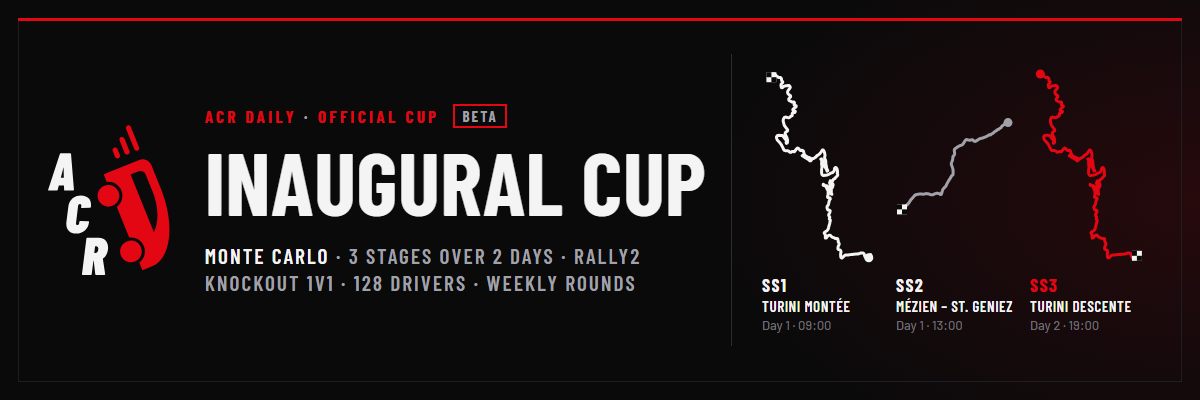
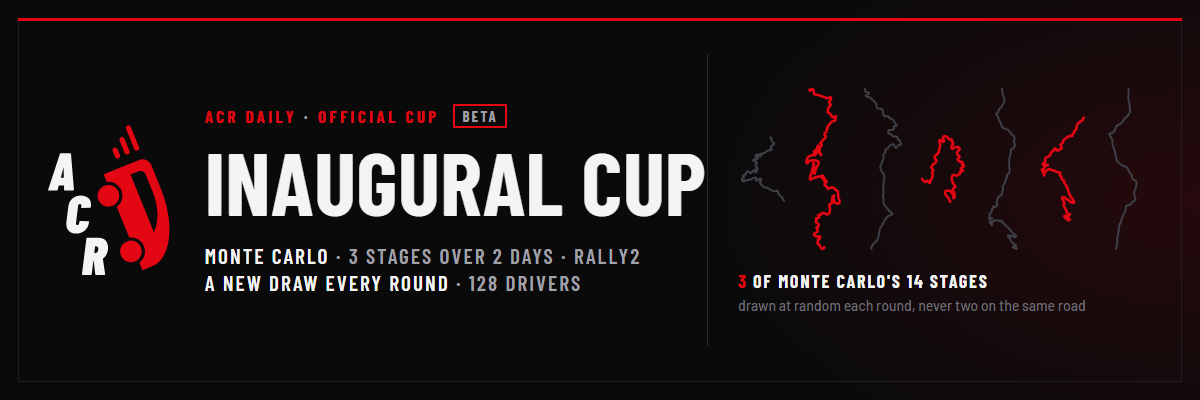
Cups: a new draw of stages each round; the Inaugural Cup draws Monte Carlo's and starts on 25 October
A cup can draw its stages anew each round ("draw" in an official cup's file; spec.draw): when a round opens, the
rally's stages are drawn into the event's slots (day, time, weather as set), never two on the same road (a stage and
its reverse, a full stage and its cuts), the ones the cup hasn't raced yet first, within maxKm in all when it can be.
Every match of the round races the same; the drivers' notices name the stages, the cup page lists each round's.
The Inaugural Cup (beta): three Monte Carlo stages drawn each round (40 km at most), from 25 October, a new banner
with the rally's seven roads. admin.py reads a cup file saved with a BOM (Notepad).

diff --git a/server/src/cups.js b/server/src/cups.js
@@ -21,7 +21,7 @@
 import { stageParts } from './conditions.js';
 import { clash, giveManyWhenStmts, giveWhenStmts, potPayouts, takeWhenStmts } from './credits.js';
 import { bannerUrl, checkBanner, LIMITS, newLeagueId, text } from './leagues.js';
-import { checkMatchSpec, holderRows, makeHolder, matchEventsStmt, storeBanner } from './leaguesapi.js';
+import { checkMatchSpec, holderRows, makeHolder, matchEventsStmt, rallyPool, storeBanner } from './leaguesapi.js';
 import { cupMatchStmts, RATING, ratingOn } from './rating.js';
 import { noticesStmt } from './social.js';
 
@@ -33,6 +33,38 @@ export const CUP = {
 // ACR Daily's own cups: who runs them, and what only they may have
 export const OFFICIAL = { owner: 'acr-daily', name: 'ACR Daily', maxRoundHours: 14 * 24, maxPrize: 100000, startWithinDays: 60 };
 const HOUSE = '';                                         // ACR Daily's share of a pot (its prize): never paid to anyone
+
+// ------------------------------------------------------------------ a new draw of stages each round (spec.draw)
+
+/** A stage's place on the map, from the game's id: {base: the stage, cut: 'Full' | 'Cut1'...} ("MonteCarloS1BolleneCut1
+ *  Forward" -> MonteCarloS1Bollene, Cut1). Its reverse is the same road; a full stage holds its cuts. */
+function roadOf(s) {
+  const m = /^(.*?)(Full|Cut\d+)(Forward|Reverse)$/.exec(s.stageId || '');
+  return m ? { base: m[1], cut: m[2] } : { base: s.stageId || s.track, cut: 'Full' };
+}
+const sameRoad = (a, b) => { const x = roadOf(a), y = roadOf(b); return x.base === y.base && (x.cut === y.cut || x.cut === 'Full' || y.cut === 'Full'); };
+
+/** A round's stages, drawn: each of the template's slots ([{day, service, weather, time}]) gets a stage of the rally (pool:
+ *  [{track, stageId, lengthM}]), never two on the same road, the ones not in `used` (tracks driven in earlier rounds)
+ *  first, the total `maxKm` at most when it can be. rand() -> [0, 1). -> [{track, day, service, weather, time}], or
+ *  null when the rally hasn't enough roads. */
+export function drawStages(pool, template, used, maxKm = null, rand = Math.random) {
+  const mix = (a) => { for (let i = a.length - 1; i > 0; i--) { const j = Math.floor(rand() * (i + 1)); [a[i], a[j]] = [a[j], a[i]]; } return a; };
+  // many draws, the best kept: within maxKm first, then the most stages not driven yet (a draw that is both: at once)
+  let picks = null, best = -1;
+  for (let t = 0; t < 200; t++) {
+    const got = [];
+    for (const s of [...mix(pool.filter((p) => !used.has(p.track))), ...mix(pool.filter((p) => used.has(p.track)))]) {
+      if (got.length < template.length && !got.some((p) => sameRoad(p, s))) got.push(s);
+    }
+    if (got.length < template.length) continue;          // (this order ran out of roads: another may not)
+    const fresh = got.filter((p) => !used.has(p.track)).length;
+    const within = maxKm == null || got.reduce((a, p) => a + (p.lengthM || 0), 0) <= maxKm * 1000;
+    if ((within ? 100 : 0) + fresh > best) { picks = got; best = (within ? 100 : 0) + fresh; }
+    if (best === 100 + template.length) break;
+  }
+  return picks ? template.map((slot, k) => ({ track: picks[k].track, day: slot.day, service: slot.service, weather: slot.weather, time: slot.time })) : null;
+}
 
 /** How long a round is open, said: "7 days", "36 hours". */
 export const roundLength = (h) => (h % 24 === 0 && h >= 48 ? `${h / 24} days` : `${h} hours`);
@@ -107,8 +139,21 @@ const cupOut = (c, entrants) => {
     fee: c.fee, prize: c.prize || 0, split: JSON.parse(c.split), starts: c.starts, roundHours: c.round_hours, status: c.status,
     round: c.round, entrants: n, pot: c.fee * n + (c.prize || 0), banner: bannerUrl(c.id, c.banner),
     rally: spec.rally, car: spec.car, carClass: spec.car_class, rules: spec.rules,
-    stages: spec.stages.map((s) => ({ name: stageParts(s.track).stageName, day: s.day, weather: s.weather, time: s.time })) };
+    // draw: a new draw of the rally's stages each round (the stages: its slots, no names), else the same every round
+    draw: spec.draw ? { maxKm: spec.draw.maxKm || null } : null,
+    stages: spec.stages.map((s) => ({ name: spec.draw ? null : stageParts(s.track).stageName, day: s.day, weather: s.weather, time: s.time })) };
 };
+const stagesOut = (stages) => stages.map((s) => ({ name: stageParts(s.track).stageName, day: s.day, weather: s.weather, time: s.time }));
+
+/** The stages a round of the cup races: drawn now when the cup draws them each round (spec.draw: none twice on the
+ *  same road, the ones its earlier rounds didn't race first), else its own. -> the round's spec */
+async function roundSpec(env, c, spec) {
+  if (!spec.draw) return spec;
+  const { results } = await env.DB.prepare('SELECT stages FROM league_events WHERE league_id = ?').bind(c.id).all();
+  const used = new Set(results.flatMap((e) => JSON.parse(e.stages).map((s) => s.track)));
+  const stages = drawStages(await rallyPool(env, spec.rally), spec.stages, used, spec.draw.maxKm);
+  return { ...spec, stages: stages || spec.stages };
+}
 const LIST = `SELECT c.*, p.name AS owner_name, h.banner, (SELECT COUNT(*) FROM cup_entries e WHERE e.cup_id = c.id) AS entrants
   FROM cups c LEFT JOIN players p ON p.steam_id = c.owner LEFT JOIN leagues h ON h.id = c.id`;
 
@@ -135,10 +180,13 @@ export async function cupsApi(req, env, path, me, sameOrigin, now, { json, err }
   if (m && !post) {
     const c = await env.DB.prepare(`${LIST} WHERE c.id = ?`).bind(m[1]).first();
     if (!c) return err('no such cup', 404);
-    const [en, ma] = await env.DB.batch([
+    const [en, ma, rs] = await env.DB.batch([
       env.DB.prepare(`SELECT e.*, p.name, p.avatar, p.country, r.rating FROM cup_entries e JOIN players p ON p.steam_id = e.steam_id
         LEFT JOIN ratings r ON r.steam_id = e.steam_id WHERE e.cup_id = ? ORDER BY COALESCE(e.seed, 999), r.rating DESC, e.joined`).bind(c.id),
       env.DB.prepare('SELECT * FROM cup_matches WHERE cup_id = ? ORDER BY round, slot').bind(c.id),
+      // the stages each round raced (a round's matches all race the same: one of its events tells)
+      env.DB.prepare(`SELECT m.round, MIN(e.stages) AS stages FROM cup_matches m JOIN league_events e ON e.id = m.event_id
+        WHERE m.cup_id = ? GROUP BY m.round ORDER BY m.round`).bind(c.id),
     ]);
     const who = new Map(en.results.map((e) => [e.steam_id, { steamId: e.steam_id, name: e.name, avatar: e.avatar || null,
       country: e.country || null, seed: e.seed, place: e.place, rating: e.rating == null ? null : Math.round(e.rating) }]));
@@ -152,6 +200,7 @@ export async function cupsApi(req, env, path, me, sameOrigin, now, { json, err }
       return { ...who.get(sid), status: r ? r.status : null, totalMs: r && r.status === 'finished' ? r.totalMs : null, done: r ? r.done : 0 };
     };
     return json({ ...cupOut(c), entrants: [...who.values()], rounds,
+      roundStages: rs.results.map((x) => ({ round: x.round, name: roundName(x.round, rounds), stages: stagesOut(JSON.parse(x.stages)) })),
       matches: ma.results.map((x) => ({ id: x.id, round: x.round, slot: x.slot, name: roundName(x.round, rounds), eventId: x.event_id,
         a: side(x.a, totals.get(x.id)), b: side(x.b, totals.get(x.id)), winner: x.winner, note: x.note })),
       me: me ? { signedIn: true, entered: who.has(me.steam_id), owner: c.owner === me.steam_id } : { signedIn: false } });
@@ -262,11 +311,19 @@ export async function adminCup(env, b, now) {
   const split = has('split') ? CUP.splits[b.split] && CUP.splits[b.split].shares : old ? JSON.parse(old.split) : CUP.splits.all.shares;
   if (!split) return { error: `the split: ${Object.keys(CUP.splits).join(', ')}` };
   let spec = old ? JSON.parse(old.spec) : null;
-  if (has('event')) {
-    const c = await checkMatchSpec(env, { ...b.event, name, opens: now, closes: now + 2 * 3600000 }, now);
+  // draw: {maxKm} (or true): each round draws its own stages of the rally into the event's slots (their tracks may be left out)
+  const draw = has('draw') ? (b.draw ? { maxKm: Number(b.draw.maxKm) > 0 ? Number(b.draw.maxKm) : null } : null) : spec && spec.draw || null;
+  if (has('event') || (spec && has('draw'))) {
+    const ev = has('event') ? b.event : { rally: spec.rally, car: spec.car, carClass: spec.car_class, rules: spec.rules, stages: spec.stages };
+    let stages = ev.stages;
+    if (draw) {                                           // (a draw now, to check the rally has the roads for it)
+      stages = drawStages(await rallyPool(env, ev.rally), Array.isArray(ev.stages) ? ev.stages : [], new Set(), draw.maxKm);
+      if (!stages || !stages.length) return { error: `${ev.rally} hasn't enough stages on different roads for ${(ev.stages || []).length} a round` };
+    }
+    const c = await checkMatchSpec(env, { ...ev, stages, name, opens: now, closes: now + 2 * 3600000 }, now);
     if (c.error) return { error: c.error };
     const { opens, closes, ...rest } = c.value;
-    spec = rest;
+    spec = draw ? { ...rest, draw } : rest;
   }
   if (!spec) return { error: 'what every match races: event {rally, car | carClass, rules, stages}' };
   let banner = null;
@@ -332,11 +389,13 @@ export const seedOrderOf = (entries) => shuffle(entries.slice())
 const PER_RUN = { start: 2, running: 2 };
 
 /** The statements opening a round, for the batch with the cup's change to that round (`cond` with `binds`: it went in):
- *  its matches (byes decided at once), each other match an event for its two drivers open from `opensAt`, a notice to
- *  each driver. pairs: [{slot, a, b}]; names: Map steamId -> name. The same four statements for 2 drivers or 128. */
-function roundStmts(env, c, round, rounds, pairs, names, now, opensAt, cond, binds) {
+ *  its matches (byes decided at once), each other match an event for its two drivers open from `opensAt` racing `spec`
+ *  (the round's: roundSpec), a notice to each driver. pairs: [{slot, a, b}]; names: Map steamId -> name. The same four
+ *  statements for 2 drivers or 128. */
+function roundStmts(env, c, spec, round, rounds, pairs, names, now, opensAt, cond, binds) {
   const rn = roundName(round, rounds), ref = `cup:${c.id}`, name = (sid) => names.get(sid) || 'a driver';
   const games = pairs.filter((p) => p.a && p.b), byes = pairs.filter((p) => !(p.a && p.b) && (p.a || p.b));
+  const drawn = spec.draw ? ` The stages: ${spec.stages.map((s) => stageParts(s.track).stageName).join(', ')}.` : '';
   const bye = (p) => !(p.a && p.b);
   return [
     env.DB.prepare(`INSERT OR IGNORE INTO cup_matches (cup_id, round, slot, a, b, winner, note)
@@ -344,7 +403,7 @@ function roundStmts(env, c, round, rounds, pairs, names, now, opensAt, cond, bin
         json_extract(j.value, '$.w'), json_extract(j.value, '$.note') FROM json_each(?) j WHERE ${cond}`)
       .bind(c.id, round, JSON.stringify(pairs.map((p) => ({ slot: p.slot, a: p.a, b: p.b, w: bye(p) ? p.a || p.b : null,
         note: bye(p) ? 'a bye' : null }))), ...binds),
-    matchEventsStmt(env, c.id, JSON.parse(c.spec), games.map((p) => ({ name: `${rn}: ${name(p.a)} vs ${name(p.b)}`, only: [p.a, p.b] })),
+    matchEventsStmt(env, c.id, spec, games.map((p) => ({ name: `${rn}: ${name(p.a)} vs ${name(p.b)}`, only: [p.a, p.b] })),
       opensAt, now + c.round_hours * 3600000, now, cond, binds),
     // each match its event: two drivers meet once at most in a knockout, so the cup's event naming them is the one
     env.DB.prepare(`UPDATE cup_matches SET event_id = (SELECT e.id FROM league_events e WHERE e.league_id = cup_matches.cup_id
@@ -353,7 +412,7 @@ function roundStmts(env, c, round, rounds, pairs, names, now, opensAt, cond, bin
     noticesStmt(env, 'cup', [
       ...byes.map((p) => ({ to: p.a || p.b, body: `${c.name}: a bye in ${rn.toLowerCase()}, you go through.` })),
       ...games.flatMap((p) => [[p.a, p.b], [p.b, p.a]].map(([x, y]) => ({ to: x,
-        body: `${c.name}, ${rn.toLowerCase()}: you against ${name(y)}. Drive it from ACR Daily's LEAGUES view within ${roundLength(c.round_hours)}.` }))),
+        body: `${c.name}, ${rn.toLowerCase()}: you against ${name(y)}.${drawn} Drive it from ACR Daily's LEAGUES view within ${roundLength(c.round_hours)}.` }))),
     ], ref, now, cond, binds),
   ];
 }
@@ -376,11 +435,12 @@ export async function cupsTick(env, now, opensAt = now) {
     // the start, the seeds and round 1 together (round_at: this run's mark, so only what it started goes in)
     const seeded = seedOrderOf(en);
     const went = ['EXISTS (SELECT 1 FROM cups WHERE id = ? AND round = 1 AND round_at = ?)', [c.id, now]];
+    const spec = await roundSpec(env, c, JSON.parse(c.spec));
     await env.DB.batch([
       env.DB.prepare("UPDATE cups SET status = 'running', round = 1, round_at = ? WHERE id = ? AND status = 'open'").bind(now, c.id),
       env.DB.prepare(`UPDATE cup_entries SET seed = (SELECT j.key + 1 FROM json_each(?) j WHERE j.value = cup_entries.steam_id)
         WHERE cup_id = ? AND ${went[0]}`).bind(JSON.stringify(seeded), c.id, ...went[1]),
-      ...roundStmts(env, c, 1, Math.log2(bracketSize(seeded.length)), firstRound(seeded), new Map(en.map((e) => [e.steam_id, e.name])),
+      ...roundStmts(env, c, spec, 1, Math.log2(bracketSize(seeded.length)), firstRound(seeded), new Map(en.map((e) => [e.steam_id, e.name])),
         now, opensAt, ...went),
     ]);
     out.push({ cup: c.id, did: 'started' });
@@ -431,9 +491,10 @@ export async function cupsTick(env, now, opensAt = now) {
         next.push({ slot: k, a: seedOf(w1) <= seedOf(w2) ? w1 : w2, b: seedOf(w1) <= seedOf(w2) ? w2 : w1 });
       }
       const went = ['EXISTS (SELECT 1 FROM cups WHERE id = ? AND round = ? AND round_at = ?)', [c.id, c.round + 1, now]];
+      const spec = await roundSpec(env, c, JSON.parse(c.spec));
       await env.DB.batch([
         env.DB.prepare('UPDATE cups SET round = ?, round_at = ? WHERE id = ? AND round = ?').bind(c.round + 1, now, c.id, c.round),
-        ...roundStmts(env, c, c.round + 1, rounds, next, names, now, opensAt, ...went),
+        ...roundStmts(env, c, spec, c.round + 1, rounds, next, names, now, opensAt, ...went),
       ]);
       out.push({ cup: c.id, did: `round ${c.round + 1}` });
       continue;

diff --git a/server/src/socialpages.js b/server/src/socialpages.js
@@ -346,7 +346,7 @@ export function cupsPage(env) {
   function list(id,xs,empty){var box=$(id);box.innerHTML='';if(!xs.length){box.appendChild(el('div','empty',empty));return}xs.forEach(function(x){box.appendChild(item(x,id))})}
   function item(c,kind){var it=el('div','cupi'+(c.official?' official':'')),a=el('a','grow');a.href='/cup/'+c.id;
     var t=el('div','t',c.name+' ');if(c.official)add(t,officialBadge(),' ');if(C.mine.indexOf(c.id)>=0)t.appendChild(el('span','badge upcoming','you\\'re in'));if(ME&&c.owner.steamId===ME.steamId)add(t,' ',el('span','badge','yours'));
-    add(a,t,el('div','s',c.rally+' · '+c.stages.length+(c.stages.length===1?' stage':' stages')+' · '+(c.car||c.carClass+' class')+' · rounds of '+roundLength(c.roundHours)+' · by '+c.owner.name));
+    add(a,t,el('div','s',c.rally+' · '+c.stages.length+(c.stages.length===1?' stage':' stages')+(c.draw?', a new draw each round':'')+' · '+(c.car||c.carClass+' class')+' · rounds of '+roundLength(c.roundHours)+' · by '+c.owner.name));
     var r=el('div','r'),d=el('div');
     if(kind==='open'){add(d,c.entrants+' of '+c.size+' drivers',el('br'),c.fee?add(el('span'),'entry ',cr(c.fee)):'free entry',c.prize?add(el('span'),' · prize ',cr(c.prize)):null,el('br'),'starts '+when(c.starts));r.appendChild(d);
       if(ME&&C.mine.indexOf(c.id)<0&&c.entrants<c.size&&Date.now()<c.starts){var j=el('button','btn small','Join');j.onclick=function(){join(c,j)};r.appendChild(j)}}
@@ -457,11 +457,17 @@ export function cupPage(id, env) {
 
   // ---- what every match races
   function spec(c){var s=$('spec');s.innerHTML='';fact('spec','Location',c.rally);fact('spec',c.car?'Car':'Car class',c.car||c.carClass+' (each picks a car of it)');
-    fact('spec','Stages',String(c.stages.length));var r=$('rules');r.innerHTML='';r.appendChild(ruleChips(c.rules));
-    var t=$('stages');t.innerHTML='';var h=el('tr');add(h,el('th',null,''),el('th',null,'Stage'),el('th','r','Start'),el('th',null,'Weather'));t.appendChild(h);
-    var days=c.stages.some(function(x){return x.day>1});   // (a rally of more than one day: each day a heading)
-    c.stages.forEach(function(x,i){if(days&&(!i||x.day!==c.stages[i-1].day)){var dr=el('tr','day'),td=el('td',null,'Day '+x.day);td.colSpan=4;dr.appendChild(td);t.appendChild(dr)}
-      var tr=el('tr');add(tr,el('td','pos','SS'+(i+1)),el('td','drv',x.name),el('td','r',x.time),el('td',null,WX[x.weather]||x.weather));t.appendChild(tr)})}
+    fact('spec','Stages',c.stages.length+(c.draw?', a new draw each round':''));var r=$('rules');r.innerHTML='';r.appendChild(ruleChips(c.rules));
+    if(c.draw)r.appendChild(el('p','note','Each round, '+c.stages.length+' of '+c.rally+'\\'s stages are drawn at random when it opens: never two on the same road, the ones not driven yet in this cup first'+
+      (c.draw.maxKm?', '+c.draw.maxKm+' km at most in all':'')+'. Every match of the round races the same.'));
+    var t=$('stages');t.innerHTML='';
+    // a cup that draws: each round's draw so far (the slots until the first), else its stages
+    var sets=c.draw?(c.roundStages||[]).map(function(x){return{head:x.name,stages:x.stages}}):[{head:null,stages:c.stages}];
+    if(c.draw&&!sets.length)sets=[{head:'Drawn when the cup starts',stages:c.stages}];
+    sets.forEach(function(set){var h=el('tr');add(h,el('th',null,''),el('th',null,set.head||'Stage'),el('th','r','Start'),el('th',null,'Weather'));t.appendChild(h);
+      var days=set.stages.some(function(x){return x.day>1});   // (a rally of more than one day: each day a heading)
+      set.stages.forEach(function(x,i){if(days&&(!i||x.day!==set.stages[i-1].day)){var dr=el('tr','day'),td=el('td',null,'Day '+x.day);td.colSpan=4;dr.appendChild(td);t.appendChild(dr)}
+        var tr=el('tr');add(tr,el('td','pos','SS'+(i+1)),el('td','drv',x.name||'a stage of '+c.rally+', drawn'),el('td','r',x.time),el('td',null,WX[x.weather]||x.weather));t.appendChild(tr)})})}
 
   // ---- the drivers: seed once drawn, how far each got
   function entrants(c){var t=$('entrants');t.innerHTML='';var seeded=c.entrants.some(function(e){return e.seed});

diff --git a/server/src/leaguesapi.js b/server/src/leaguesapi.js
@@ -719,6 +719,12 @@ export async function holderRows(env, holder, now, ids = null) {
   return new Map(evs.filter((ev) => !want || want.has(ev.id)).map((ev) => [ev.id, standingsOf(ev, res.get(ev.id) || EMPTY, now).rows]));
 }
 
+/** A rally's stages an event can use (the routes with the game's stage id): [{track, stageId, lengthM}] (a cup's draw). */
+export async function rallyPool(env, rally) {
+  return (await routesRows(env)).filter((r) => stageParts(r.track).rally === rally)
+    .map((r) => ({ track: r.track, stageId: r.stage_id, lengthM: Math.round(r.length || 0) }));
+}
+
 /** An event as checkEvent makes it from a form, for a head-to-head or a cup (its window set later for a cup). */
 export async function checkMatchSpec(env, b, now) {
   return checkEvent(b, catalog(await routesRows(env)), now);

diff --git a/server/test/e2e_social.py b/server/test/e2e_social.py
@@ -295,6 +295,35 @@ check('ACR Daily\'s prize shared 60 / 30 (and the semi-finalists\' 5 + 5 to the 
 st, r = call('/api/admin/cup', dict(ocup, name='Second Official', starts=now + 3 * 86400000), admin=True)
 check('the admin calls an official cup off', call('/api/admin/cup', {'id': r['id'], 'cancel': True}, admin=True)[1].get('cancelled'))
 
+# ---- an official cup that draws its stages each round (the test's rally has 2 roads: Hafren South both ways, Hafren North)
+dstart = int(time.time() * 1000) + 3600000 + 60000
+dcup = {k: v for k, v in ocup.items() if k != 'banner'}
+dcup.update(name='Draw Cup', size=4, prize=0, roundHours=24, starts=dstart, draw={'maxKm': 40},
+            event=dict(rally, stages=[{'day': 1, 'weather': 'Clear', 'time': '09:00'}]))
+check('a draw of 3 stages needs 3 roads', call('/api/admin/cup', dict(dcup, event=rally), admin=True)[0] == 400)
+st, r = call('/api/admin/cup', dcup, admin=True)
+did = r.get('id')
+dc = call('/api/cups/%s' % did)[1]
+check('a cup that draws: its slots, no stage named yet', st == 200 and dc['draw'] == {'maxKm': 40} and dc['stages'][0]['name'] is None, dc.get('stages'))
+for t in (A, B, C, D):
+    call('/api/cups/%s/join' % did, {}, token=t)
+r = tick(dstart + 60000)
+check('it starts', {'cup': did, 'did': 'started'} in r['cups'], r)
+dc = call('/api/cups/%s' % did)[1]
+r1 = [m for m in dc['matches'] if m['round'] == 1]
+check('round 1 drawn: one stage', len(dc['roundStages']) == 1 and len(dc['roundStages'][0]['stages']) == 1, dc['roundStages'])
+check('the drivers are told the stage', any('The stages: ' + dc['roundStages'][0]['stages'][0]['name'] in n['body'] for n in notices(A)), notices(A)[:1])
+for m in r1:
+    for side, ms in ((m['a'], 100000), (m['b'], 101000)):
+        call('/api/events/%d/start' % m['eventId'], {'car': CAR}, token=tok[name_of[side['steamId']]])
+        call('/api/events/%d/stage' % m['eventId'], {'no': 0, 'timeMs': ms, 'penaltyMs': 0}, token=tok[name_of[side['steamId']]])
+dclose = call('/api/events/%d' % r1[0]['eventId'])[1]['closes']
+r = tick(dclose + GRACE + 60000)
+check('round 1 decided, the final opened', {'cup': did, 'did': 'round 2'} in r['cups'], r)
+rs = call('/api/cups/%s' % did)[1]['roundStages']
+check('the final drew another stage (one round 1 didn\'t race)', len(rs) == 2 and rs[0]['stages'][0]['name'] != rs[1]['stages'][0]['name'] and
+      rs[1]['name'] == 'Final', rs)
+
 # ---- the coming week's dailies fixed ahead of time (the cron does it once an hour; the admin any time)
 nxt = call('/api/admin/state', admin=True)[1]['next']
 st, r = call('/api/admin/schedule-ahead', {}, admin=True)

diff --git a/tools/admin.py b/tools/admin.py
@@ -172,7 +172,7 @@ def main(a):
             print('called off: %s (%d fee(s) back)' % (a[2], r.get('refunded', 0)))
             return
         path = a[2] if a[1] == 'new' else a[3]
-        with open(path, encoding='utf-8') as f:
+        with open(path, encoding='utf-8-sig') as f:       # (Notepad may save it with a BOM)
             body = json.load(f)
         if isinstance(body.get('starts'), str):            # "2026-10-18T18:00:00Z" -> ms
             body['starts'] = int(datetime.datetime.fromisoformat(body['starts'].replace('Z', '+00:00')).timestamp() * 1000)

diff --git a/README.md b/README.md
@@ -61,7 +61,7 @@ Points drivers earn and stake inside ACR Daily (`server/src/credits.js`, the web
 |---|---|
 | Inbox | `/inbox` and the app: notices from ACR Daily (a challenge came in, a cup match is ready, results) and short 1:1 messages between drivers (500 characters, 30 an hour), with block and report (`server/src/social.js`). |
 | 1V1 | `/1v1`: a driver challenges another to an event of their own making (stages, car or class, rules, a window of up to 14 days) with a stake each (0: a friendly). The challenged driver accepts or declines within a day; accepted, it is a match both drive from the app's LEAGUES view. The lower total wins both stakes; nobody finishing or a dead heat: stakes back (`server/src/h2h.js`: head-to-heads, `h2h` in the code, the API and the database). |
-| Cups | `/cups`: a knockout of 1V1s (up to 4, 8, 16, 32, 64 or 128 drivers) anyone can make, with an entry fee and a split of the pot (winner takes all, 70 / 30, or 60 / 30 / 5 / 5). At the start the bracket is the smallest that holds who joined (63 drivers in a 128 cup: a Round of 64), seeded by the driver rating (equal ratings at random), byes for the top seeds; each round's matches are open for 12 to 72 hours; nobody finishing or a dead heat: the higher seed goes through (`server/src/cups.js`). A round opens, is decided and is paid with a few bulk statements whatever its size: the free plan allows 50 database queries a cron run. **Official cups** are ACR Daily's own, made by the admin (`python admin.py cup new tools\cups\<file>.json`, e.g. `tools/cups/inaugural-cup.json` with its banner): "run by ACR Daily" with an OFFICIAL badge, listed first and on the home page, rounds of up to two weeks, a banner, and a prize of ACR Daily's credits added to the pot. |
+| Cups | `/cups`: a knockout of 1V1s (up to 4, 8, 16, 32, 64 or 128 drivers) anyone can make, with an entry fee and a split of the pot (winner takes all, 70 / 30, or 60 / 30 / 5 / 5). At the start the bracket is the smallest that holds who joined (63 drivers in a 128 cup: a Round of 64), seeded by the driver rating (equal ratings at random), byes for the top seeds; each round's matches are open for 12 to 72 hours; nobody finishing or a dead heat: the higher seed goes through (`server/src/cups.js`). A round opens, is decided and is paid with a few bulk statements whatever its size: the free plan allows 50 database queries a cron run. **Official cups** are ACR Daily's own, made by the admin (`python admin.py cup new tools\cups\<file>.json`, e.g. `tools/cups/inaugural-cup.json` with its banner): "run by ACR Daily" with an OFFICIAL badge, listed first and on the home page, rounds of up to two weeks, a banner, a prize of ACR Daily's credits added to the pot, and (`"draw"` in the file) a new random draw of the rally's stages each round: never two on the same road, the ones not driven yet in the cup first, within a total length if set. |
 | How they are driven | Each 1V1 and cup has a hidden "holder" league (`leagues.kind` h2h / cup) whose events are its matches, each open to its two drivers only (`league_events.only_ids`): DRIVE, the stages, the timing and the standings are the leagues'. The cron settles 1V1s and moves cups on every 5 minutes (a few of each a run). |
 | Privacy | Messages are not private: they are kept as written (not end-to-end encrypted, deleted after 180 days) and the site's admins can read them, which is how a report is checked. The inbox says so, on the website and in the app. |
 
